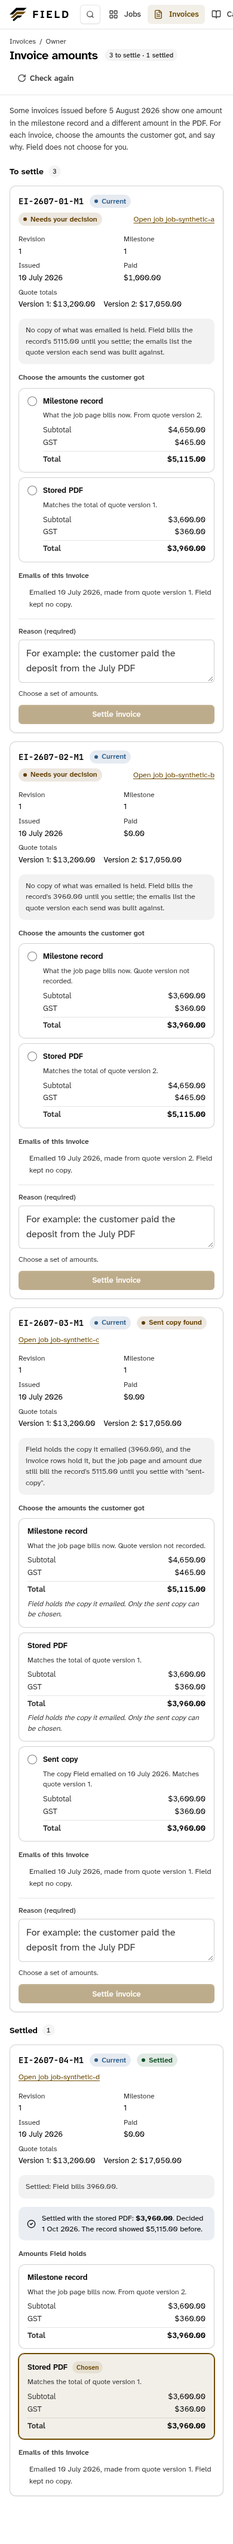
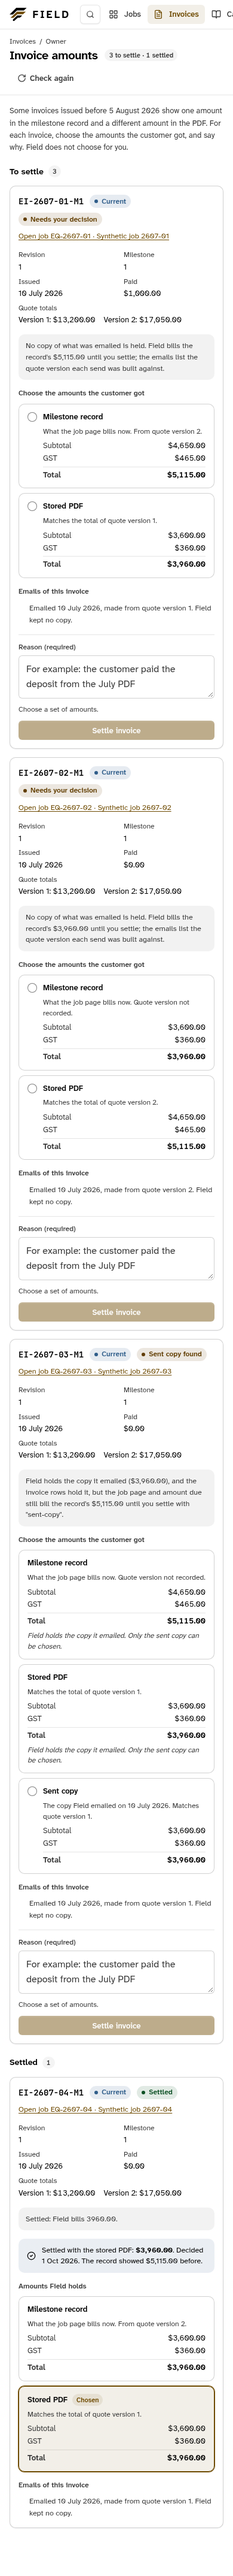
improve: the notice counts every unsettled invoice, job links name the job, notes show money
- The Invoices notice counts every invoice not settled yet, "Sent copy
  found" included: each one still needs the owner.
- "Open job" links name the job by its number and address, as the jobs
  board does, when the shell has already loaded the job list (never
  fetched for this); otherwise they read "Open job", never the raw id.
- The report's note shows its bare amounts ("5115.00") as money
  ("$5,115.00").
- Screenshots retaken from the real app with fresh synthetic data.

diff --git a/client/src/features/invoices/invoice-amounts-page.test.tsx b/client/src/features/invoices/invoice-amounts-page.test.tsx
@@ -2,9 +2,10 @@ import { afterEach, beforeEach, describe, expect, it, vi } from "vitest";
 import { fireEvent, render, renderHook, screen, waitFor, within } from "@testing-library/react";
 import { HashRouter } from "react-router-dom";
 import { api } from "@/lib/api";
-import type { InvoiceAmountEntry, InvoiceAmountReport } from "@/lib/types";
+import { refreshJobs } from "@/lib/use-jobs";
+import type { InvoiceAmountEntry, InvoiceAmountReport, RecordingMeta } from "@/lib/types";
 import { InvoiceAmountsPage } from "./invoice-amounts-page";
-import { resetAmountReportCache, useAmountDecisionCount } from "./invoice-amounts-model";
+import { noteWithMoney, resetAmountReportCache, useAmountDecisionCount } from "./invoice-amounts-model";
 
 const toast = vi.fn();
 vi.mock("@/components/shell/shell-context", () => ({ useShell: () => ({ toast }) }));
@@ -77,7 +78,8 @@ describe("InvoiceAmountsPage", () => {
     finish(report([open, settled]));
 
     const card = await openCard();
-    const job = within(card).getByRole("link", { name: "Open job job-synthetic-a" }) as HTMLAnchorElement;
+    // No job list loaded: the link does not show the raw job id.
+    const job = within(card).getByRole("link", { name: "Open job" }) as HTMLAnchorElement;
     expect(job.getAttribute("href")).toBe("#/jobs/job-synthetic-a");
     expect(within(card).getByText("Current")).toBeTruthy();
     expect(within(card).getByText("Needs your decision")).toBeTruthy();
@@ -93,7 +95,7 @@ describe("InvoiceAmountsPage", () => {
     expect(within(pdf).getByText("$360.00")).toBeTruthy();
     expect(within(pdf).getByText("$3,960.00")).toBeTruthy();
     expect(within(pdf).getByText(/Matches the total of quote version 1/)).toBeTruthy();
-    expect(within(card).getByText(open.note!)).toBeTruthy();
+    expect(within(card).getByText("No copy of what was emailed is held. Field bills the record's $5,115.00 until you settle; the emails list the quote version each send was built against.")).toBeTruthy();
     expect(within(card).getByText(/Field kept no copy/)).toBeTruthy();
 
     const done = screen.getByRole("article", { name: "Invoice EI-2607-02-M1" });
@@ -191,6 +193,26 @@ describe("InvoiceAmountsPage", () => {
     expect(within(card).getAllByRole("radio").map((radio) => (radio as HTMLInputElement).value)).toEqual(["sent-copy"]);
     expect(within(card).getAllByText("Field holds the copy it emailed. Only the sent copy can be chosen.")).toHaveLength(2);
   });
+
+  it("names the job by its number and address when the job list is already loaded", async () => {
+    vi.spyOn(api, "recordings").mockResolvedValue([
+      { id: "job-synthetic-a", quoteNumber: "EQ-2607-01", siteAddress: "1 Example Road, Testville" } as RecordingMeta,
+    ]);
+    await refreshJobs();
+    vi.spyOn(api, "invoiceAmountDisagreements").mockResolvedValue(report([open]));
+    renderPage();
+    const card = await openCard();
+    const link = within(card).getByRole("link", { name: "Open job EQ-2607-01 · 1 Example Road, Testville" });
+    expect(link.getAttribute("href")).toBe("#/jobs/job-synthetic-a");
+  });
+});
+
+describe("noteWithMoney", () => {
+  it("shows the note's bare amounts as money and leaves other numbers alone", () => {
+    expect(noteWithMoney("Field holds the copy it emailed (3960.00), but the job page still bills the record's 15115.00 until you settle with \"sent-copy\"."))
+      .toBe("Field holds the copy it emailed ($3,960.00), but the job page still bills the record's $15,115.00 until you settle with \"sent-copy\".");
+    expect(noteWithMoney("Quote version 2 and 3 emails.")).toBe("Quote version 2 and 3 emails.");
+  });
 });
 
 describe("useAmountDecisionCount", () => {
@@ -201,9 +223,9 @@ describe("useAmountDecisionCount", () => {
     expect(load).not.toHaveBeenCalled();
   });
 
-  it("counts only the invoices that need the owner's decision", async () => {
+  it("counts every invoice not settled yet, sent copy found included", async () => {
     vi.spyOn(api, "invoiceAmountDisagreements").mockResolvedValue(report([open, { ...open, invoiceNumber: "EI-2607-03-M1" }, settled, { ...open, invoiceNumber: "EI-2607-04-M1", state: "sent-differs-from-recorded" }]));
     const { result } = renderHook(() => useAmountDecisionCount(true));
-    await waitFor(() => expect(result.current).toBe(2));
+    await waitFor(() => expect(result.current).toBe(3));
   });
 });

diff --git a/client/src/features/invoices/invoice-amounts-page.tsx b/client/src/features/invoices/invoice-amounts-page.tsx
@@ -8,11 +8,14 @@ import { Link } from "react-router-dom";
 import { AlertTriangle, CheckCircle2, RotateCw } from "lucide-react";
 import { api } from "@/lib/api";
 import { money } from "@/lib/job-status";
-import type { InvoiceAmountEntry, InvoiceAmountReport, InvoiceAmountSet, InvoiceAmountSource } from "@/lib/types";
+import { useLoadedJobs } from "@/lib/use-jobs";
+import type { InvoiceAmountEntry, InvoiceAmountReport, InvoiceAmountSet, InvoiceAmountSource, RecordingMeta } from "@/lib/types";
 import { useShell } from "@/components/shell/shell-context";
 import {
   groupEntries,
+  jobLinkLabel,
   loadAmountReport,
+  noteWithMoney,
   reportErrorMessage,
   settleErrorMessage,
   SOURCE_LABEL,
@@ -45,6 +48,9 @@ function versionList(versions: number[] | undefined) {
 
 export function InvoiceAmountsPage() {
   const [load, setLoad] = useState<Load>({ status: "loading", report: null });
+  // The shell has usually loaded the jobs already; this never fetches them.
+  const jobs = useLoadedJobs();
+  const jobFor = (id: string) => jobs?.find((job) => job.id === id) || null;
 
   const fetchReport = useCallback(() => {
     loadAmountReport()
@@ -109,13 +115,13 @@ export function InvoiceAmountsPage() {
         {report && open.length > 0 && (
           <section className="fx-amt__group" aria-labelledby="amt-open">
             <h2 className="fx-amt__h" id="amt-open">To settle <span className="fx-badge">{open.length}</span></h2>
-            {open.map((entry) => <AmountEntry key={`${entry.jobId}/${entry.invoiceNumber}`} entry={entry} onSettled={reload} />)}
+            {open.map((entry) => <AmountEntry key={`${entry.jobId}/${entry.invoiceNumber}`} entry={entry} job={jobFor(entry.jobId)} onSettled={reload} />)}
           </section>
         )}
         {report && settled.length > 0 && (
           <section className="fx-amt__group" aria-labelledby="amt-settled">
             <h2 className="fx-amt__h" id="amt-settled">Settled <span className="fx-badge">{settled.length}</span></h2>
-            {settled.map((entry) => <AmountEntry key={`${entry.jobId}/${entry.invoiceNumber}`} entry={entry} onSettled={reload} />)}
+            {settled.map((entry) => <AmountEntry key={`${entry.jobId}/${entry.invoiceNumber}`} entry={entry} job={jobFor(entry.jobId)} onSettled={reload} />)}
           </section>
         )}
       </div>
@@ -160,7 +166,7 @@ function amountSets(entry: InvoiceAmountEntry): SetCard[] {
   return cards;
 }
 
-export function AmountEntry({ entry, onSettled }: { entry: InvoiceAmountEntry; onSettled: () => void }) {
+export function AmountEntry({ entry, job = null, onSettled }: { entry: InvoiceAmountEntry; job?: RecordingMeta | null; onSettled: () => void }) {
   const shell = useShell();
   const [choice, setChoice] = useState<InvoiceAmountSource | null>(null);
   const [reason, setReason] = useState("");
@@ -199,7 +205,7 @@ export function AmountEntry({ entry, onSettled }: { entry: InvoiceAmountEntry; o
         <span className={`fx-status ${superseded ? "fx-status--doc-superseded" : "fx-status--doc-issued"}`}>{superseded ? "Superseded" : "Current"}</span>
         <span className={`fx-status ${settled ? "fx-status--paid" : "fx-status--invoicing"}`}>{STATE_LABEL[entry.state] || entry.state}</span>
         <span className="fx-spacer" />
-        <Link className="fx-amt__job" to={`/jobs/${encodeURIComponent(entry.jobId)}`}>Open job {entry.jobId}</Link>
+        <Link className="fx-amt__job" to={`/jobs/${encodeURIComponent(entry.jobId)}`}>{jobLinkLabel(job)}</Link>
       </div>
 
       <dl className="fx-amt__facts">
@@ -213,7 +219,7 @@ export function AmountEntry({ entry, onSettled }: { entry: InvoiceAmountEntry; o
         </div>
       </dl>
 
-      {entry.note && <p className="fx-amt__note">{entry.note}</p>}
+      {entry.note && <p className="fx-amt__note">{noteWithMoney(entry.note)}</p>}
 
       {settled && (
         <div className="fx-notice fx-amt__notice" role="note">

diff --git a/client/src/features/invoices/invoice-amounts-model.ts b/client/src/features/invoices/invoice-amounts-model.ts
@@ -4,7 +4,8 @@
 // with 409 while the first runs, and one run can take 15 s or more).
 import { useEffect, useState } from "react";
 import { api } from "@/lib/api";
-import type { InvoiceAmountEntry, InvoiceAmountReport, InvoiceAmountSource, InvoiceAmountState } from "@/lib/types";
+import { jobRef, jobTitle, money } from "@/lib/job-status";
+import type { InvoiceAmountEntry, InvoiceAmountReport, InvoiceAmountSource, InvoiceAmountState, RecordingMeta } from "@/lib/types";
 
 export const SOURCE_LABEL: Record<InvoiceAmountSource, string> = {
   "milestone-record": "Milestone record",
@@ -27,9 +28,20 @@ export const STATE_LABEL: Record<InvoiceAmountState, string> = {
   settled: "Settled",
 };
 
-/** How many invoices wait for the owner to choose (state "needs-owner-decision"). */
+/** How many invoices wait for the owner: every one not settled yet. */
 export function decisionCount(report: Pick<InvoiceAmountReport, "invoices"> | null | undefined): number {
-  return (report?.invoices || []).filter((entry) => entry.state === "needs-owner-decision").length;
+  return (report?.invoices || []).filter((entry) => entry.state !== "settled").length;
+}
+
+/** "Open job EQ-2607-01 · 12 Example Street" when the job list is loaded, else "Open job". */
+export function jobLinkLabel(job: RecordingMeta | null | undefined) {
+  if (!job) return "Open job";
+  return `Open job ${jobRef(job)} · ${jobTitle(job)}`;
+}
+
+/** The server's note prints bare amounts ("5115.00"): show them as money ("$5,115.00"). */
+export function noteWithMoney(note: string): string {
+  return note.replace(/(?<![\d.$])\d+\.\d{2}(?![\d.])/g, (figure) => money(Number(figure)));
 }
 
 /** The invoices still to settle, then the settled ones. */
@@ -89,7 +101,7 @@ export function loadAmountReport(): Promise<InvoiceAmountReport> {
 }
 
 /**
- * Owners only: how many invoices need a decision, from this browser
+ * Owners only: how many invoices are not settled yet, from this browser
  * session's last report (at most 10 minutes old), else from a new one run
  * quietly. 0 until known, and on any error.
  */

diff --git a/client/src/lib/use-jobs.ts b/client/src/lib/use-jobs.ts
@@ -43,3 +43,11 @@ export function useJobs() {
   const refresh = useCallback(() => refreshJobs(), []);
   return { ...state, refresh };
 }
+
+/** The job list only if something already loaded it: never fetches. */
+export function useLoadedJobs(): RecordingMeta[] | null {
+  return useSyncExternalStore(
+    (listener) => { listeners.add(listener); return () => listeners.delete(listener); },
+    () => snapshot,
+  ).jobs;
+}

diff --git a/DESIGN.md b/DESIGN.md
@@ -99,7 +99,7 @@ Every signed-in screen sits in the shell (`client/src/components/shell/app-shell
 - **Jobs** (the landing screen): four summary tiles that filter the view (Drafts to finish, Awaiting reply, Ready to invoice, Overdue), then the jobs as a **board** (Drafts, Quoted, Accepted · invoicing, Paid; Lost on request) or a sortable **list** with bulk archive. Dragging a quoted job to Invoicing asks to mark it accepted. The choice of board or list is remembered per browser.
 - **Job**: the document column (tabs: Quote, Invoices, Email, Notes and activity; Email lists every email sent for the job, each opening exactly as it went out, and the ones waiting) and a sticky summary rail (total, GST, cost, margin, paid and outstanding, then customer, site and versions, each field editable in place).
 - **Invoices**: summary tiles and a ledger of every milestone invoice, filtered by state, with Record payment and Send on the row.
-- **Invoice amounts** (`/invoices/amounts`, owners only; `client/src/features/invoices/invoice-amounts-page.tsx`): old invoices whose milestone record and PDF show different amounts (#60). Each invoice is a card with every set of amounts Field holds as a choice card, the report's note and the emails; the owner picks one set, types a reason and confirms a dialog that states the total. Settled invoices show the decision, read-only. The Invoices page shows owners a notice with the count when invoices need a decision.
+- **Invoice amounts** (`/invoices/amounts`, owners only; `client/src/features/invoices/invoice-amounts-page.tsx`): old invoices whose milestone record and PDF show different amounts (#60). Each invoice is a card with every set of amounts Field holds as a choice card, the report's note and the emails; the owner picks one set, types a reason and confirms a dialog that states the total. Settled invoices show the decision, read-only. The Invoices page shows owners a notice with the count of invoices not settled yet.
 - **Catalogue**: one table of items that open in place in a side sheet (see Catalogue below). **Settings** uses the same page header and spacing.
 
 Every page starts with the page header (`.fx-ph`): breadcrumb or title, status, then actions on the right with the single primary last but one and an overflow menu (⋯) last.

diff --git a/docs/REPLIT.md b/docs/REPLIT.md
@@ -180,7 +180,7 @@ The invoice rows backfill uses what was emailed:
 
 To see and settle every affected invoice, sign in as an owner and open
 Invoices › Choose amounts (`/#/invoices/amounts`). The Invoices page shows
-the notice when an invoice needs your decision. The screen uses the two
+the notice while an invoice is not settled. The screen uses the two
 routes below; you can also call them directly.
 
 The report route:
